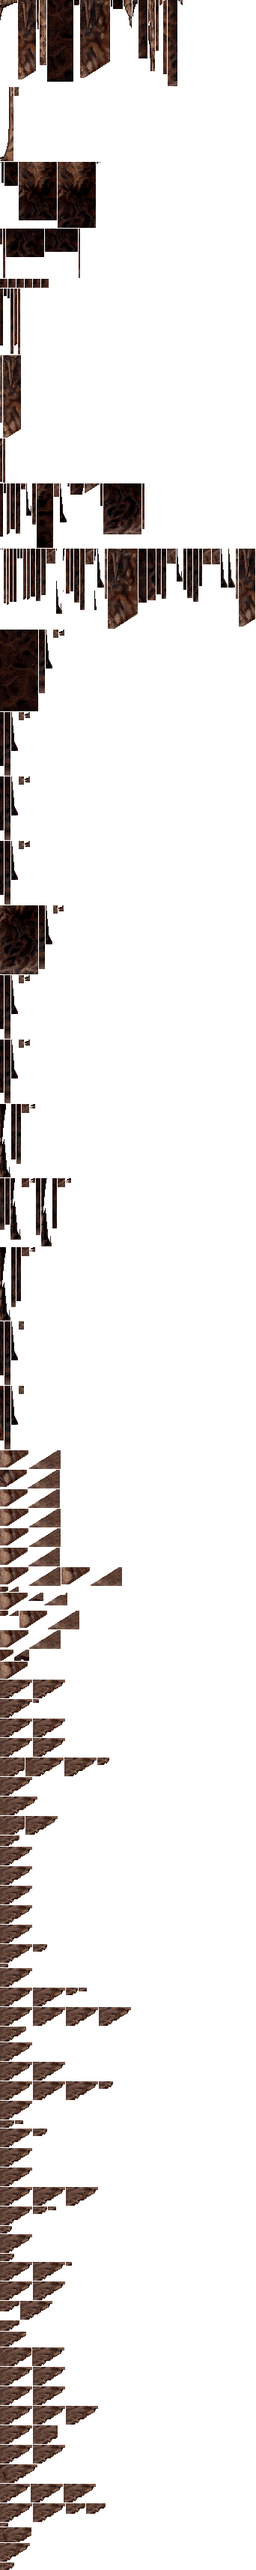
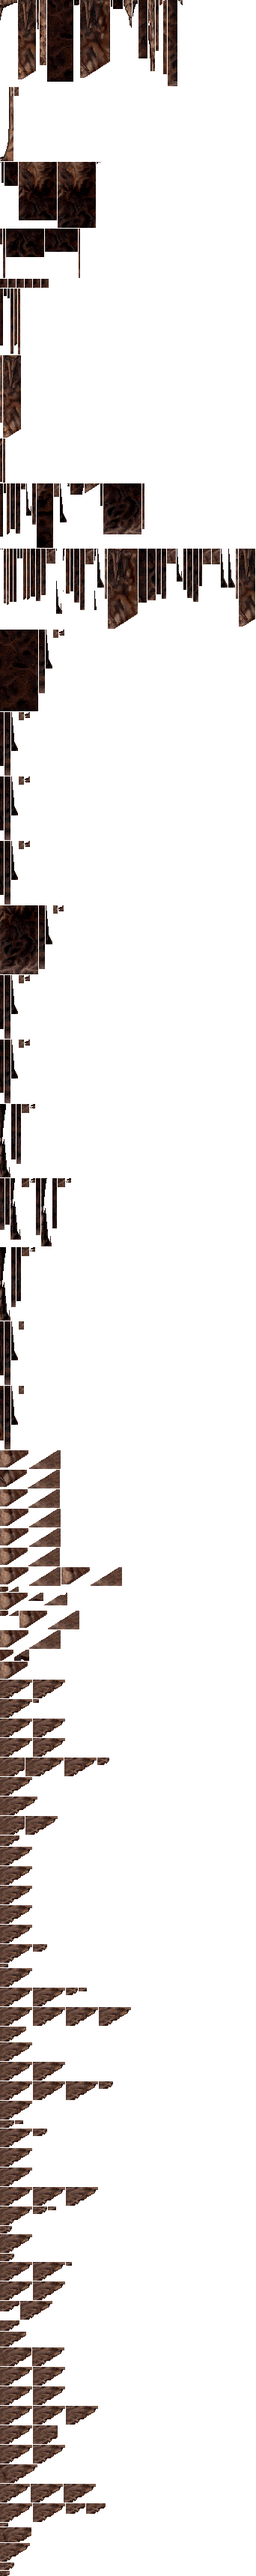
Blend approved right floor tips in level 5 room 19

diff --git a/tests/test_level5_cavern_retouch.py b/tests/test_level5_cavern_retouch.py
@@ -38,7 +38,7 @@ APPROVED = {
 class BundledLevelFiveArtworkTests(unittest.TestCase):
     def test_approved_scope_and_changed_source_guards(self):
         assets = retouch_assets(5)
-        self.assertEqual(len(assets), 80)
+        self.assertEqual(len(assets), 81)
         self.assertEqual({key[0] for key in assets}, (set(APPROVED) | right_tip_rooms(5)))
         for key, (record, image) in assets.items():
             room, shape, x, bottom, mode = key

diff --git a/docs/CAVERN_ARTWORK.md b/docs/CAVERN_ARTWORK.md
@@ -399,3 +399,4 @@ artwork; no original golden or mask assertion is discarded.
[4 lines of base64/hex data omitted]
